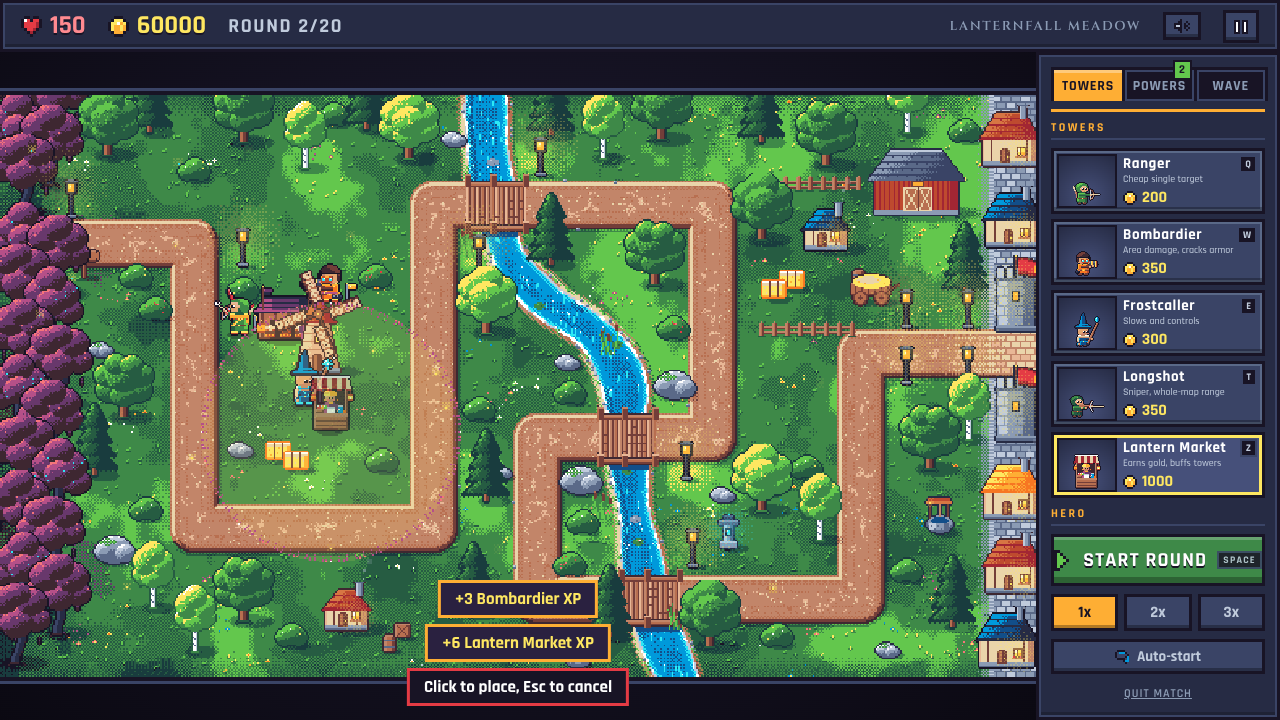
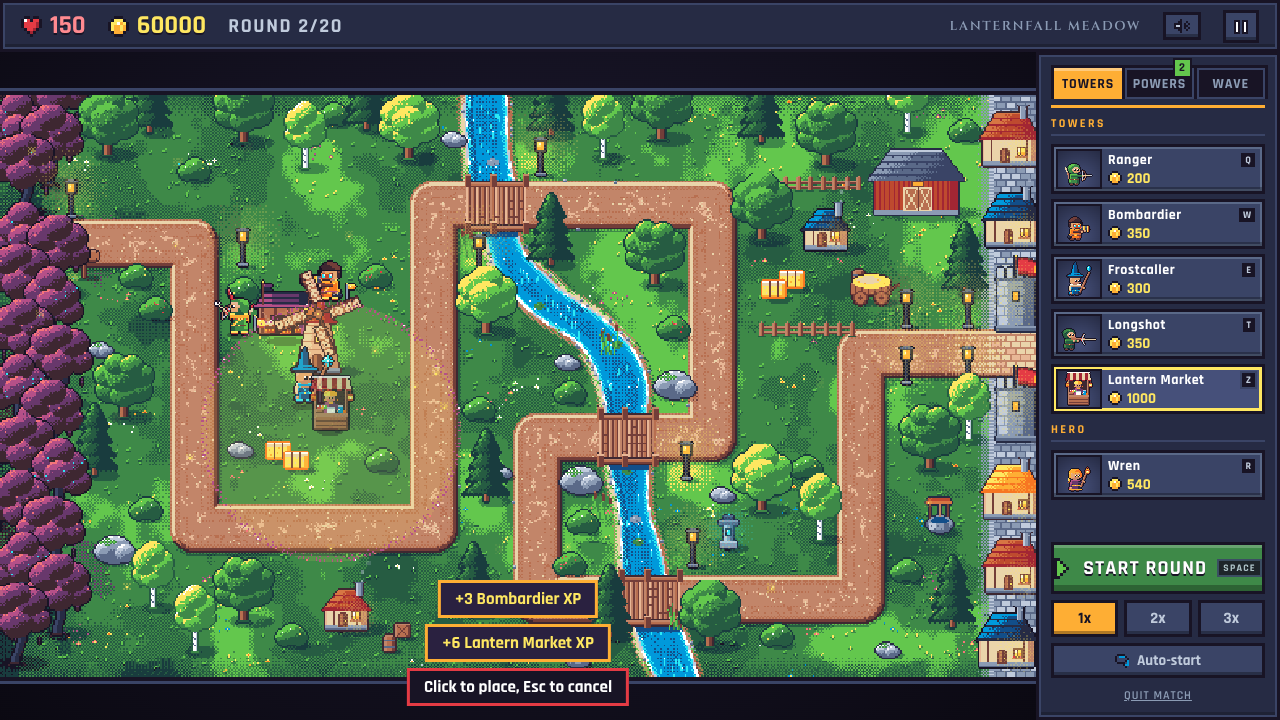
Runde 13 abgeschlossen: Turm-Leiste kompakt bei niedrigen Fenstern (Wren sichtbar), STATUS
Claude-Session: https://claude.ai/code/session_01Qw1eNus4A4pQXWKdhKHxPf

diff --git a/client/src/match/match.css b/client/src/match/match.css
@@ -347,3 +347,13 @@ kbd { font: 700 10px var(--font-num); background: var(--ink); color: var(--silve
 .ab-btn > .ab-t, .ab-btn > kbd { position: absolute; }
 .m-pane > *, .m-cards > * { flex-shrink: 0; }
 .m-card-r { white-space: nowrap; overflow: hidden; text-overflow: ellipsis; }
+/* Hauptsitzung 09.10.2026: bei 720 px Höhe verschwand Wren unter dem Scrollrand der Turm-Leiste (5 Türme + Held).
+   Niedrige Fenster: Rollen-Zeile weg, Karten flacher, damit alle 6 Karten ohne Scrollen passen. */
+@media (max-height: 860px) {
+  .m-card { min-height: 44px; padding: 2px 6px 2px 2px; }
+  .m-card .m-port { width: 46px; height: 40px; }
+  .m-card-r { display: none; }
+  .m-card-n { font-size: 14px; }
+  .m-card-p { font-size: 15px; }
+  .m-side { gap: 6px; padding: 10px 12px; }
+}

diff --git a/docs/STATUS.md b/docs/STATUS.md
@@ -1,10 +1,21 @@
 # Status (global)
 
-Arbeitsauftrag: [`/run.md`](../run.md) (**Runde 12: Reiter, Embers, Store und Powers — abgeschlossen**, Spezifikation [design/powers.md](design/powers.md)). Runde 11 (+11b Turm-XP im Match, +11c BTD6-Panel) abgeschlossen, Bericht unten, Auftrag in [archiv/run-runde11.md](archiv/run-runde11.md). **Verbindlich zuerst:** [design/ENTSCHEIDUNGEN.md](design/ENTSCHEIDUNGEN.md), dann [design/schnittstelle.md](design/schnittstelle.md). **Jede Sitzung liest danach diese Datei.**
+Arbeitsauftrag: [`/run.md`](../run.md) (**Runde 13 abgeschlossen** (Market, Longshot, Wissensbaum, keine Plattformen), Runde 14 = Thornweaver + Alchemist (`design/tuerme-r13.md`); Runde 12: Reiter, Embers, Store und Powers, Spezifikation [design/powers.md](design/powers.md)). Runde 11 (+11b Turm-XP im Match, +11c BTD6-Panel) abgeschlossen, Bericht unten, Auftrag in [archiv/run-runde11.md](archiv/run-runde11.md). **Verbindlich zuerst:** [design/ENTSCHEIDUNGEN.md](design/ENTSCHEIDUNGEN.md), dann [design/schnittstelle.md](design/schnittstelle.md). **Jede Sitzung liest danach diese Datei.**
 Frühere Aufträge: [archiv/run-runde1.md](archiv/run-runde1.md), [archiv/run-runde2.md](archiv/run-runde2.md), [archiv/run-runde3.md](archiv/run-runde3.md), [archiv/run-runde4.md](archiv/run-runde4.md), [archiv/run-runde5.md](archiv/run-runde5.md), [archiv/run-runde6.md](archiv/run-runde6.md), [archiv/run-runde7.md](archiv/run-runde7.md), [archiv/run-runde8-verworfen.md](archiv/run-runde8-verworfen.md), [archiv/run-runde8.md](archiv/run-runde8.md), [archiv/run-runde9.md](archiv/run-runde9.md).
 
 
 **Runde 13 C (Client-Einbau, 09.10.2026):** Turm-Leiste mit fuenf Tuermen (T = Longshot, Z = Market, B = Withdraw), Market im Match (Aura-Ring statt Schussring, Faehnchen an Tuermen in der Aura, Muenzflug zur Geldanzeige, Bank mit Withdraw im Panel), Longshot (kein Ring, Muendungsblitz/Rueckstoss, Ricochet, Boss-Markierung, Focus/Supply Drop/Grant mit Icons), Wissensbaum fuer 28 Knoten in 5 Aesten (`screens/knowledge-layout.ts`), Projektile starten am Muendungspunkt, Menue ohne Musik, AudioContext ab dem ersten Klick, Mix Effekte x0,7 / Musik x0,8. Tests `client/test/r13-match.test.ts`, Bilder `client/docs/r13/c-*.png`, Skript `client/scripts/shots-r13-c.mjs`.
+
+## Runde 13 (Lantern Market, Longshot, Wissensbaum 28 Knoten, Figuren ohne Plattform) — abgeschlossen 09.10.2026
+
+| Paket | Agent | Was man sieht |
+|---|---|---|
+| A Sim + Meta | Sonnet | Market (Ertrag, Bank mit Zinsen + `withdraw`, Grant, Auren), Longshot (ganze Karte, 3.000 px/s, Focus, Supply Drop, Ricochet, Boss-Markierung), Wissensbaum 28 Knoten / 5 Äste, Punkte aus Level + ersten Medaillen, Freischaltung Longshot L5 / Market L6. Abweichungen: `sim/README.md` „Runde 13“ |
+| B Pixel | Sonnet | **keine Plattformen mehr**, deutlichere Stufen (T3 größer + Panzer, T4 Rüstung + Leuchten, T5 Flügel + eigene Farben), Market (Stand → Kuppel/Schatzkammer/Rathaus) und Longshot komplett. Bilder `client/docs/r13/b-*` |
+| C Client | Sonnet | Turm-Leiste mit 5 Türmen + Wren, Market-Aura/Münzflug/Bank-Panel/Withdraw, Longshot ohne Ring + Markierung, Fähigkeiten Grant/Focus/Supply Drop, neuer Wissensbaum-Bildschirm. **Max' Playtest-Punkte:** Projektile starten am Bogen/Lauf (`towerMuzzle`), keine Menü-Musik mehr, Menü-Klicktöne ab dem ersten Klick, Mix Effekte × 0,7 / Musik × 0,8. Bilder `client/docs/r13/c-*` |
+| Hauptsitzung | – | Market-Ertrag +30 % (Bot: lohnte sich kaum), Turm-Leiste bei ≤ 860 px Höhe kompakter (Wren war bei 720 px unter dem Scrollrand) |
+
+Tests: sim 173, meta 64, client 136; tsc, build, smoke grün.
 
 ## Runde 12 (Reiter, Embers, Store, Powers) — abgeschlossen 09.10.2026
 
